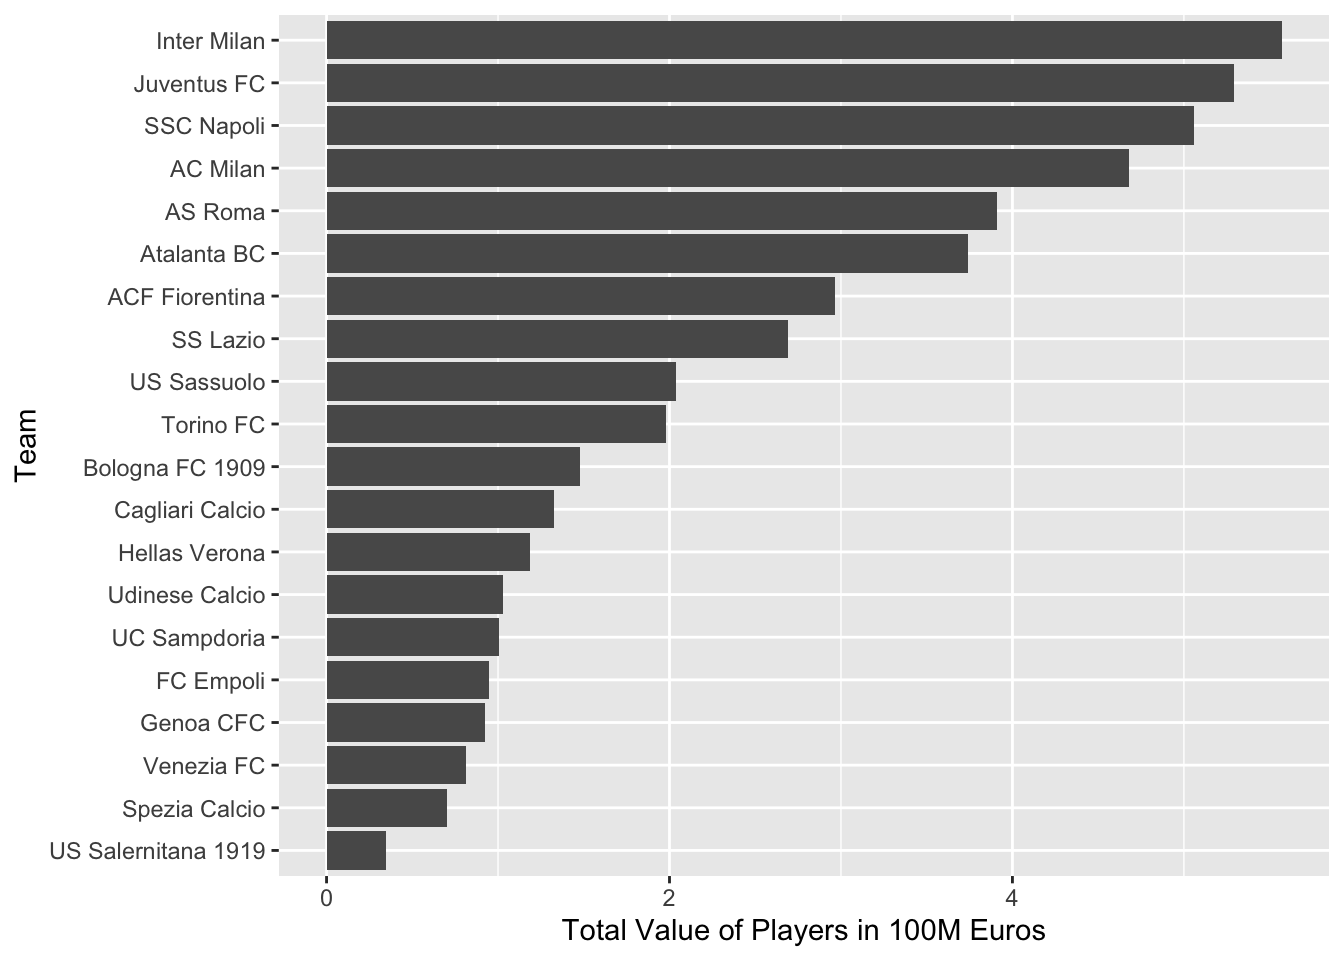
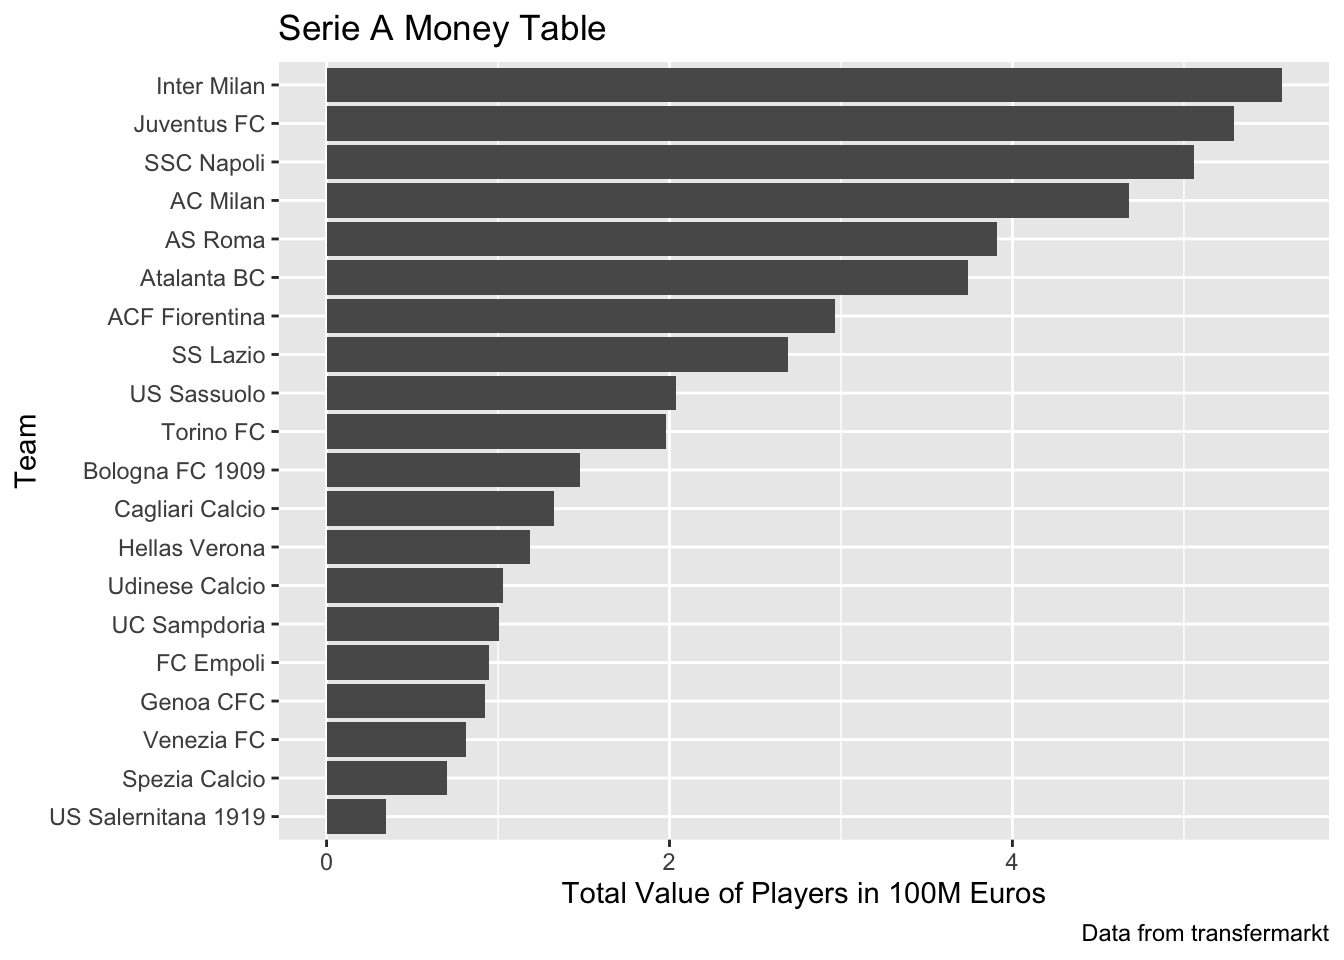
Label graphs

Changed region(s): [[0.0312, 0.0, 1.0, 1.0], [0.8125, 0.9688, 1.0, 1.0], [0.0, 0.4375, 0.0312, 0.5]]

diff --git a/content/post/2022-01-28-top-5-team-player-valuations/index.html b/content/post/2022-01-28-top-5-team-player-valuations/index.html
@@ -36,7 +36,7 @@ Big_5_player_values &lt;- get_player_market_values(country_name = c(&quot;Englan
     aes(x=fct_reorder(squad, Team.Value), y=Team.Value) + 
     geom_col() + 
     coord_flip() + 
-    labs(x=&quot;Team&quot;, y=&quot;Total Value of Players in 100M Euros&quot;) 
+    labs(x=&quot;Team&quot;, y=&quot;Total Value of Players in 100M Euros&quot;, title=paste0(value, &quot; Money Table&quot;, sep=&quot;&quot;), caption=&quot;Data from transfermarkt&quot;) 
 }</code></pre>
 </div>
 <div id="the-english-money-table" class="section level2">
